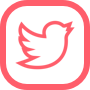
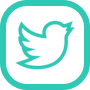
Changed colorscheme to #2FC8B4

diff --git a/css/main.css b/css/main.css
@@ -27,7 +27,7 @@ h5 {
 
 .checkoutheader {
   text-align: center;
-  background-color: #fdbcc1; }
+  background-color: #2FC8B4; }
 
 #orderctn .orderhead {
   font-size: 4vmin; }
@@ -57,7 +57,7 @@ h5 {
       -webkit-appearance: none; }
 
 #orderctn .btn-small {
-  background-color: #fdbcc1;
+  background-color: #2FC8B4;
   border-radius: 50%;
   font-size: 2vmin;
   margin-top: 0;
@@ -71,24 +71,24 @@ h5 {
   padding-left: 0; }
 
 #submitFormButton {
-  background-color: #fdbcc1; }
+  background-color: #2FC8B4; }
 
 #submitFormButton:hover {
-  background-color: #fa9aa2; }
+  background-color: #009A84; }
 
 #termsoforder {
   text-align: center; }
   #termsoforder p {
     font: "Lato", sans-serif; }
   #termsoforder #confirmationbutton {
-    background-color: #fdbcc1; }
+    background-color: #2FC8B4; }
   #termsoforder #confirmationbutton:hover {
-    background-color: #fa9aa2; }
+    background-color: #009A84; }
 
 #on {
   font-size: 1.8rem;
   font-family: "Montserrat", sans-serif;
-  color: #fdbcc1; }
+  color: #2FC8B4; }
 
 .popover .popover-header #myCartTitle span {
   font-size: 1.2rem; }
@@ -98,19 +98,19 @@ h5 {
 
 .popover .popover-body #toCheckoutButton {
   color: #FFF;
-  background-color: #fdbcc1; }
+  background-color: #2FC8B4; }
 
 footer {
   border-top: 1px solid lightgrey; }
   footer .title {
-    color: #fdbcc1;
+    color: #2FC8B4;
     font-weight: 700;
     font-size: 4vmin; }
   footer a {
     color: #656565;
     font-size: 3vmin; }
     footer a:hover {
-      color: #fdbcc1; }
+      color: #2FC8B4; }
   footer ul {
     padding: 0;
     margin: 0; }
@@ -124,7 +124,7 @@ footer {
       footer ul li a {
         font-size: 2.1vmin; }
   footer .days {
-    color: #fdbcc1;
+    color: #2FC8B4;
     font-weight: bold;
     font-size: 3vmin; }
   footer .time {
@@ -152,37 +152,37 @@ body {
   font-size: 3.5vmin; }
 
 #descriptionbutton {
-  background-color: #fdbcc1;
+  background-color: #2FC8B4;
   color: #656565;
   border-radius: 7px;
-  border-color: #fdbcc1;
+  border-color: #2FC8B4;
   font-size: 1.8vmin;
   padding: 0.4vmin; }
 
 #descriptionbutton:hover {
-  background-color: #fa9aa2; }
+  background-color: #009A84; }
 
 #descriptionbutton:active {
-  background-color: #fa858f;
-  border: 2px solid #fa858f; }
+  background-color: #67C5B9;
+  border: 2px solid #67C5B9; }
 
 #addtocart {
-  background-color: #fdbcc1;
+  background-color: #2FC8B4;
   color: #656565;
   border-top-left-radius: 0px;
   border-top-right-radius: 0px;
   border-bottom-left-radius: 5px;
   border-bottom-right-radius: 5px;
-  border-color: #fdbcc1;
+  border-color: #2FC8B4;
   font-size: 2vmin;
   padding: 1vmin; }
 
 #addtocart:hover {
-  background-color: #fa9aa2; }
+  background-color: #009A84; }
 
 #addtocart:active {
-  background-color: #fa858f;
-  border: 2px solid #fa858f; }
+  background-color: #67C5B9;
+  border: 2px solid #67C5B9; }
 
 .card-footer {
   background-color: #ffffff;
@@ -200,5 +200,5 @@ body {
   align-items: center; }
 
 button {
-  background-color: #fdbcc1;
+  background-color: #2FC8B4;
   color: #656565; }

diff --git a/scss/_variables.scss b/scss/_variables.scss
@@ -9,9 +9,9 @@ $sfont-stack: 'Lato', sans-serif; // Secondary Font
 // Variables | Colors \\
 
 $font-color: #656565;
-$main-color: rgb(253, 188, 193);
-$hoover: rgb(250, 154, 162);
-$press: rgb(250, 133, 143);
+$main-color: #2FC8B4;
+$hoover: #009A84;
+$press:#67C5B9;
 $main-color2: #FFCE1C;
 $main-color3: #2FC8B4;
 $bg-color: #ffffff;
